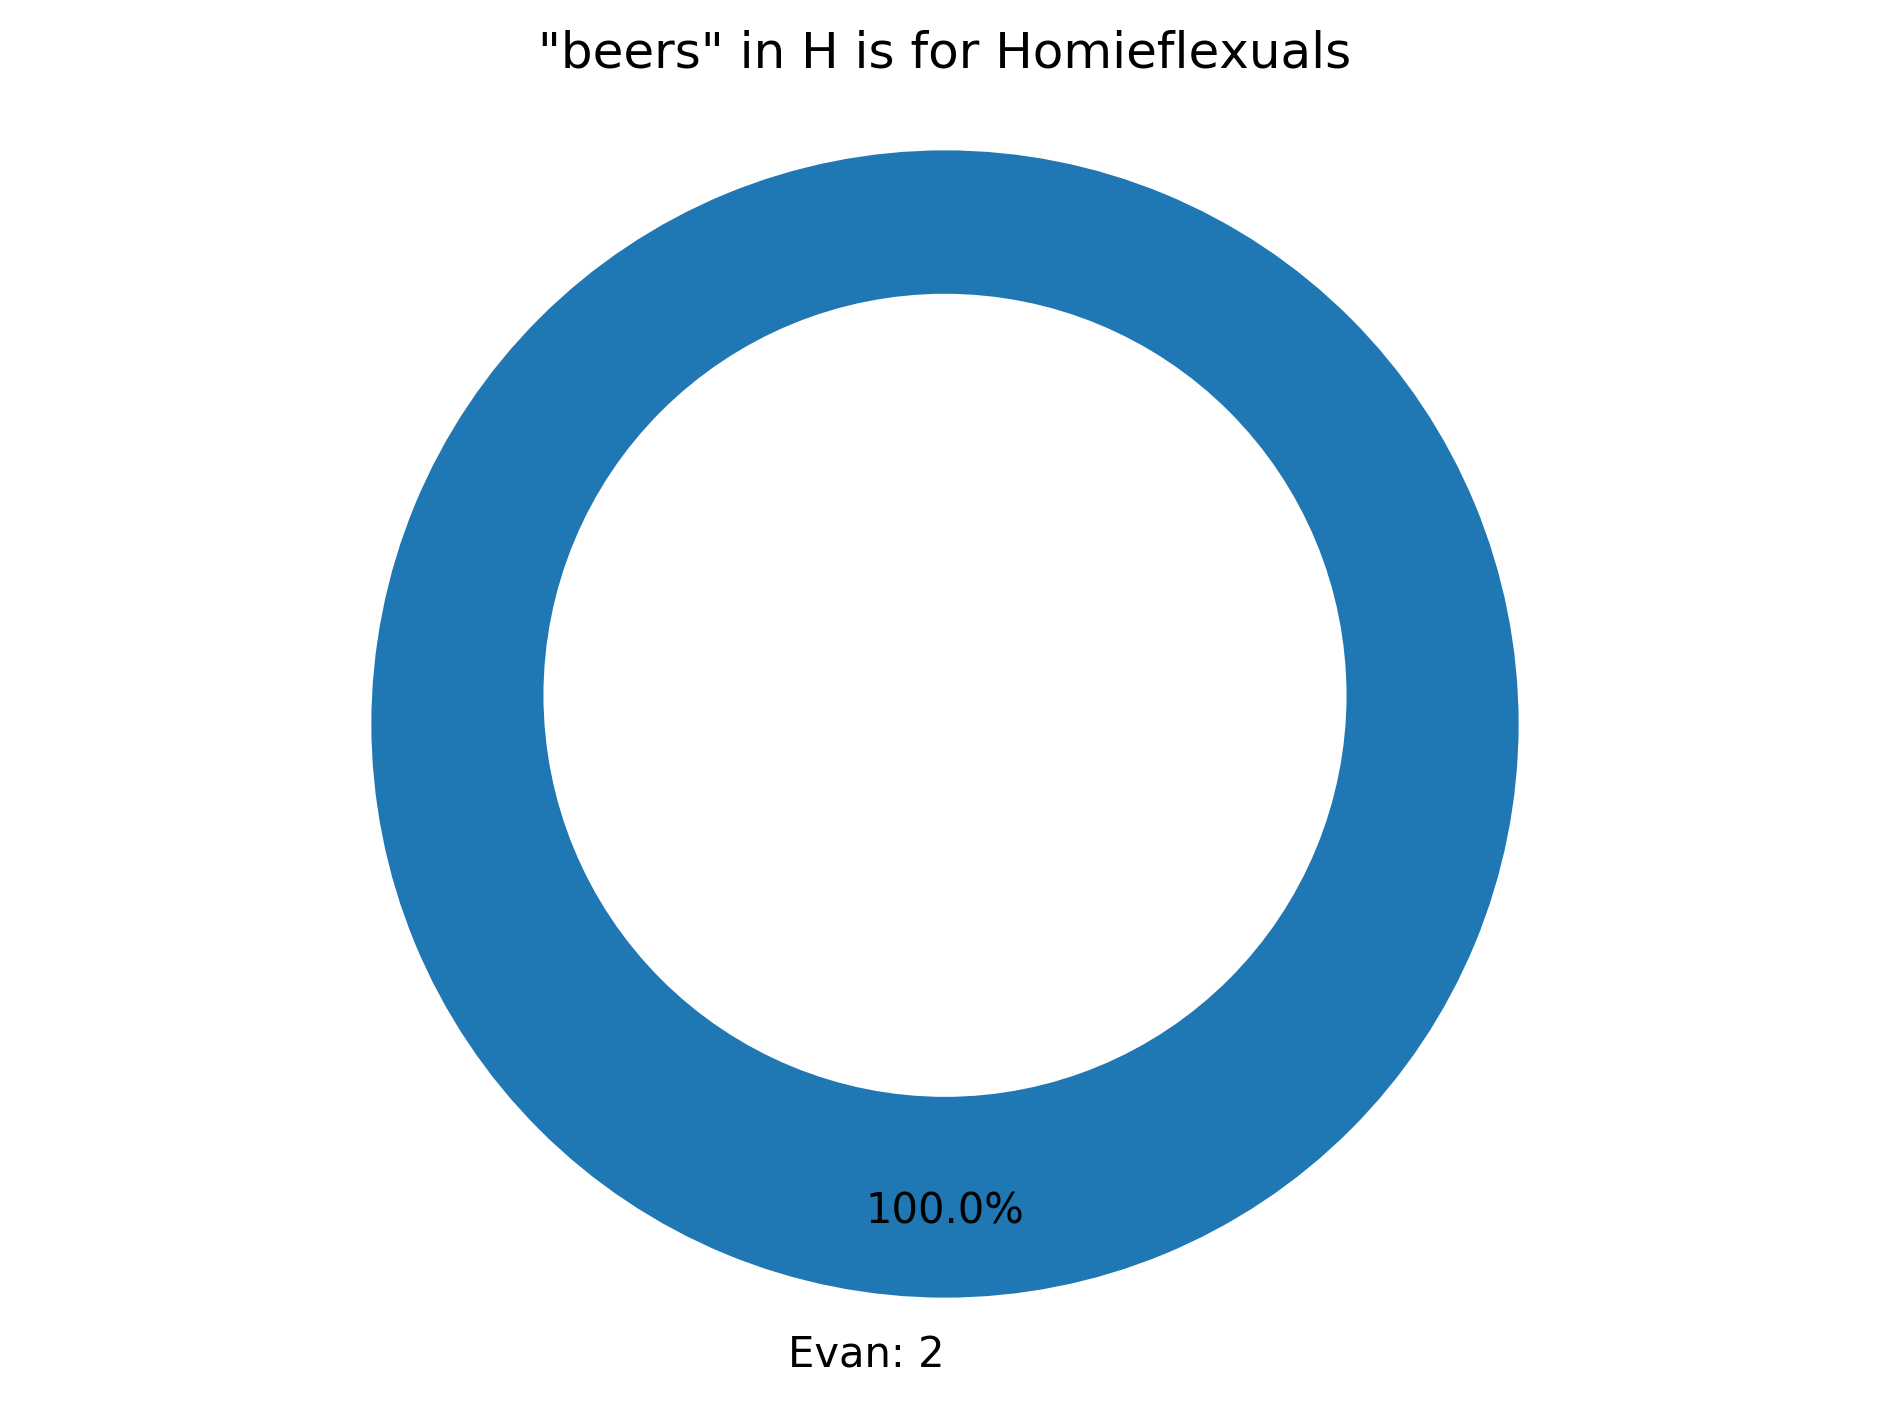
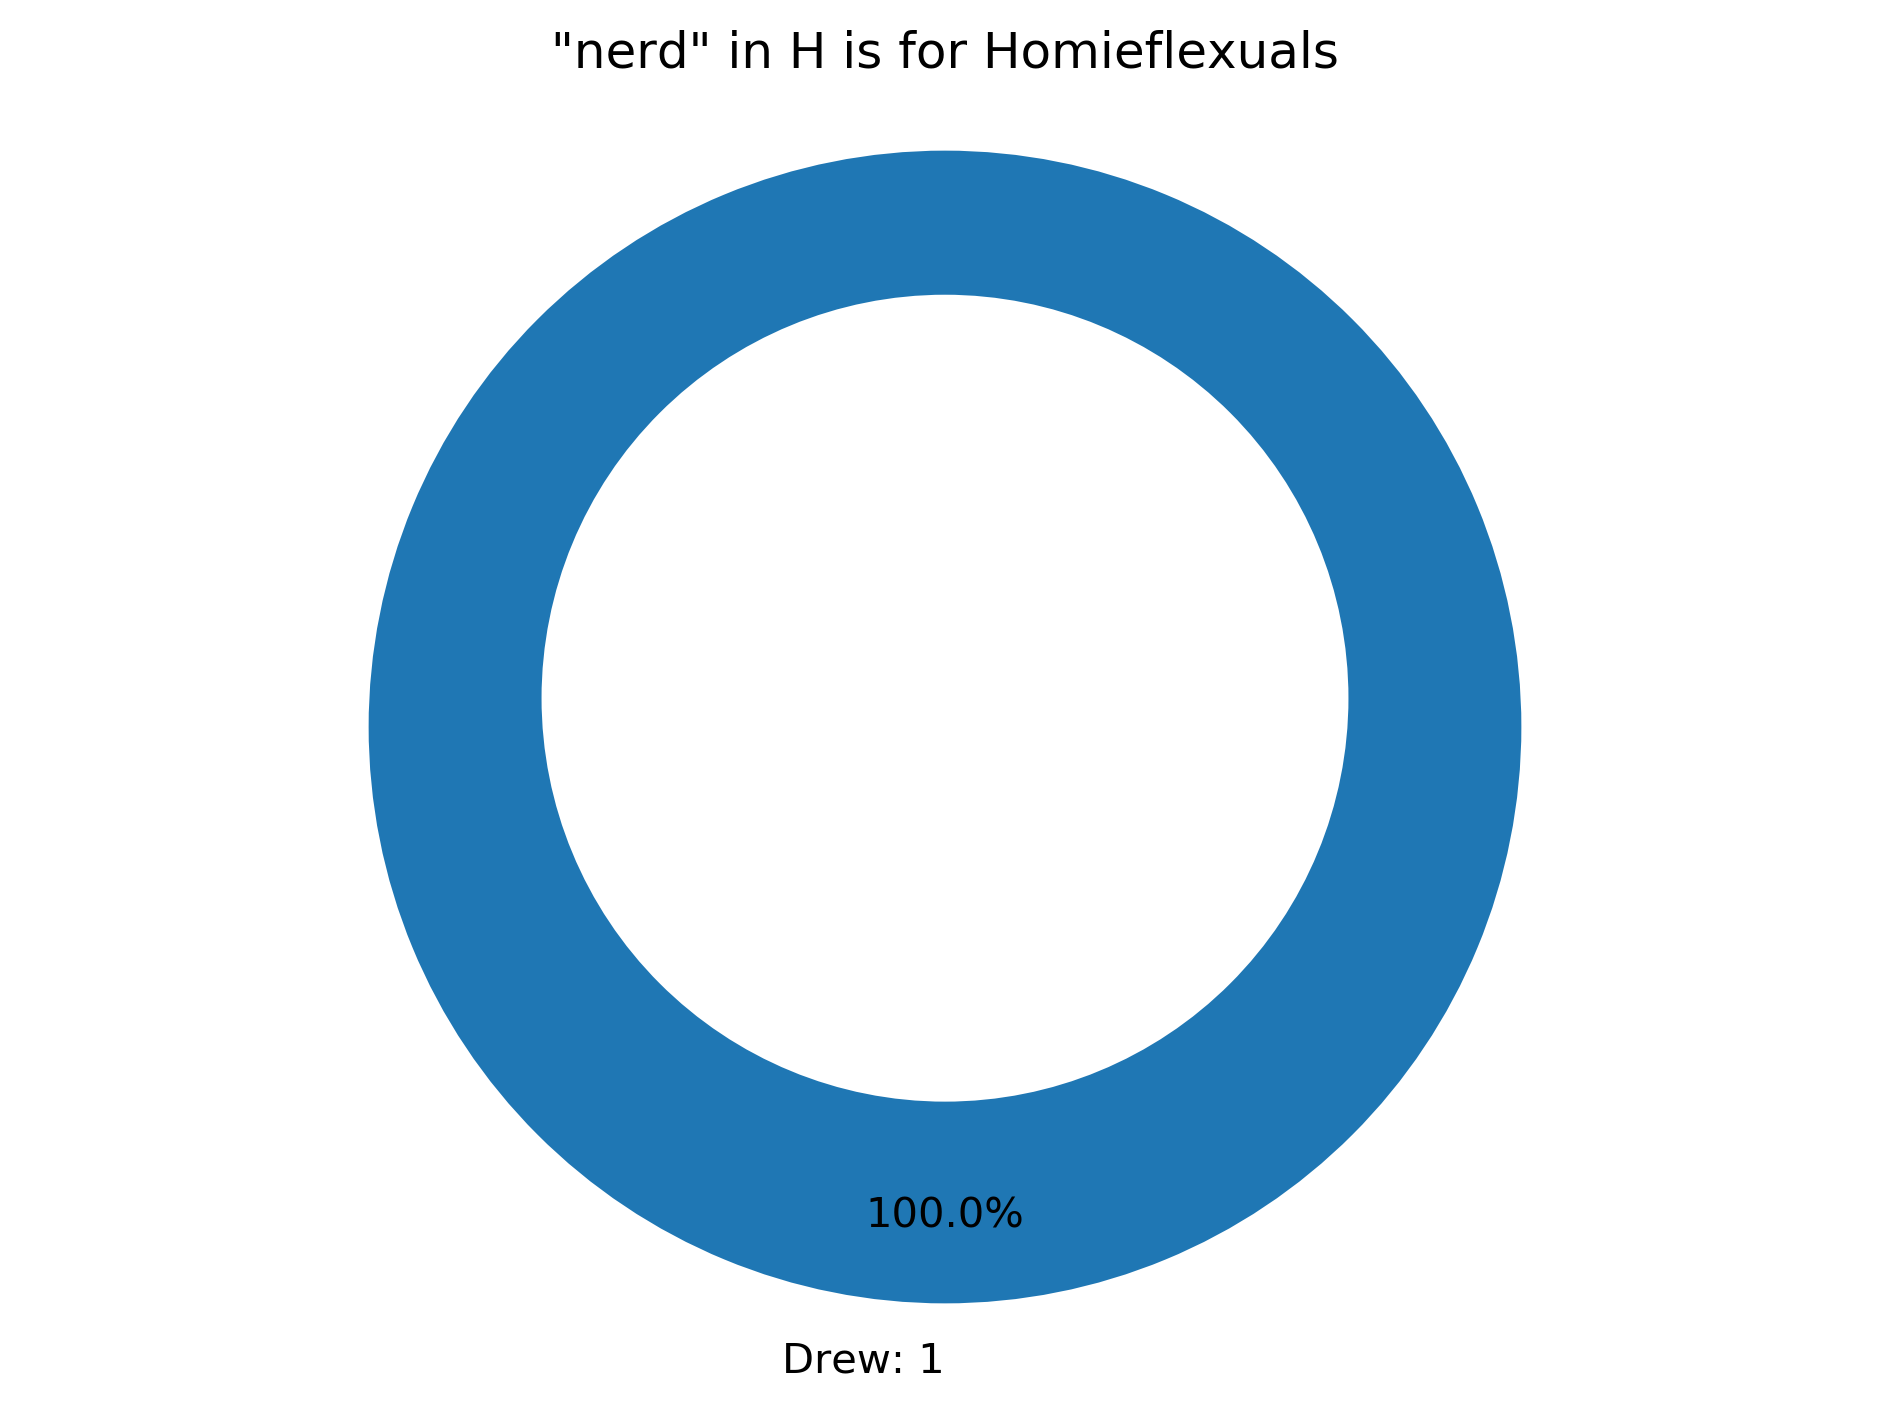
Fix code

Changed region(s): [[0.281, 0.0, 0.718, 0.0612], [0.4058, 0.9481, 0.4995, 0.9787]]

diff --git a/app.py b/app.py
@@ -4,6 +4,10 @@ import subprocess
 from database import Database
 import config
 from imessage import Chat, Message, Recipient
+import matplotlib.pyplot as plt
+from os import listdir
+from os.path import isfile, join
+from random import randrange
 
 from pathlib import Path
 HOME = str(Path.home())
@@ -24,6 +28,9 @@ class Command:
 
   def getHelp(self):
     return self._help
+  
+  def onlyGroupChat(self):
+    return False
 
 class Help(Command):
   def __init__(self):
@@ -34,6 +41,8 @@ class Help(Command):
     for cmd in commands.items():
       output += "\n\n{0}{1}: {2}".format(config.PREFIX, cmd[1].getCommand(), cmd[1].getHelp())
     message.getChat().sendMessage(output)
+
+
 
 class Shuttle(Command):
   def __init__(self):
@@ -59,30 +68,71 @@ class WordStatistic(Command):
     if not chat.isGroup():
       chat.sendMessage("This command only works with group chats!")
       return
-    # chat.sendImage(os.getcwd() + "/gb.jpg")
 
-    chat.sendMessage("Not finished.")
+    if len(messageArr) < 2:
+      chat.sendMessage("You must supply a word after the command!")
+      return
+
+    word = " ".join(messageArr[1:])
+    data = db.getCountForWord(chat, word)
+    displayName = chat.getDisplayname()
+
+    try:
+      labels = [Recipient(d[1]).getName() + ": " + str(d[0]) for d in data]
+      total = sum([d[0] for d in data])
+      sizes = [d[0]/total for d in data]
+
+      explode = [0] * len(labels)
+      explode[sizes.index(max(sizes))] = 0.05
+      explode = tuple(explode)
+
+      fig1, ax1 = plt.subplots()
+      ax1.pie(sizes, labels=labels, autopct='%1.1f%%', startangle=90, pctdistance=0.85, explode = explode)
+      ax1.set_title("\"{0}\" in {1}".format(word, displayName))
+
+      centre_circle = plt.Circle((0,0),0.70,fc='white')
+      fig = plt.gcf()
+      fig.gca().add_artist(centre_circle)
+
+      ax1.axis('equal')  
+      plt.tight_layout()
+      plt.savefig("tmp/tmpstat.png",bbox_inches='tight',dpi=100)
+      chat.sendImage(os.getcwd() + "/tmp/tmpstat.png")
+    except:
+      chat.sendMessage("Could not find word \"{0}\" in chat!".format(word))
 
 class Gayle(Command):
   def __init__(self):
-    super().__init__("gayle", "mmmmmmmmm gayle beebe oh yeah mhm")
+    super().__init__("gayle", "Shows a random photo of our beloved Beebe")
+    path = os.getcwd() + "/beebe"
+    self.gaylePhotos = [f for f in listdir(path) if isfile(join(path, f))]
 
   def __call__(self, message, messageArr):
     chat = message.getChat()
-    chat.sendImage(os.getcwd() + "/gb.jpg")
+    randomIndex = randrange(len(self.gaylePhotos))
+    chat.sendImage(os.getcwd() + "/beebe/" + self.gaylePhotos[randomIndex])
 
+class Debug(Command):
+  def __init__(self, command, helpText):
+    super().__init__("debug", "Prints debug information to the chat")
   
+  def __call__(self, message, messageArr):
+    chat = message.getChat()
+    output = "Chat: {0}\n".format(chat)
 
 commands = {
   "help": Help(),
-  "shuttle": Shuttle(),
+  # "shuttle": Shuttle(),
   "name": Name(),
   "wordstat": WordStatistic(),
-  "gayle": Gayle()
+  "gayle": Gayle(),
+  "debug": Debug()
 }
 
 def handleCommand(message):
   cmd = message.getText()
+  if cmd is None:
+    return
   if cmd[0] == "!":
     commandList = cmd.split(" ")
     command = commandList[0][1:].lower()

diff --git a/test.py b/test.py
@@ -3,10 +3,10 @@ from database import Database
 from imessage import Chat
 from imessage import Recipient
 
-db = Database("/Users/john/Library/Messages/chat.db")
+db = Database("/Users/panos/Library/Messages/chat.db")
 
 word = input("> ")
-chat = Chat("+14084311571", "chat976120161778148208")
+chat = Chat("+14084311571", "chat172003174992565788")
 data = db.getCountForWord(chat, word)
 displayName = chat.getDisplayname()
 
@@ -45,14 +45,5 @@ fig.gca().add_artist(centre_circle)
 # Equal aspect ratio ensures that pie is drawn as a circle
 ax1.axis('equal')  
 plt.tight_layout()
-plt.savefig("image.png",bbox_inches='tight',dpi=300)
+plt.savefig("tmp/tmpstat.png",bbox_inches='tight',dpi=300)
 # plt.show()
-
-class Example:
-  def __repr__(self): # __repr__ implementation
-    return "Hello!"
-
-exampleInstance = Example() # Create an instance of Example
-testVariable = str(exampleInstance) # Variable would now contain string "Hello!"
-print(exampleInstance) # Would print Hello! to the console
-print(exampleInstance.__repr__()) # Would also print Hello! to the console

diff --git a/database.py b/database.py
@@ -18,8 +18,8 @@ class Database:
 
   def getCountForWord(self, chat, word):
     c = self._db.cursor()
-    c.execute("SELECT COUNT(message.text), handle.id FROM message LEFT OUTER JOIN handle ON message.handle_id = handle.ROWID WHERE message.is_from_me = 0 AND message.cache_roomnames = ? AND message.text LIKE ? GROUP BY message.handle_id", (chat.getRoomname(), "%" + word + "%", ))
+    c.execute("SELECT COUNT(message.text), handle.id FROM message LEFT OUTER JOIN handle ON message.handle_id = handle.ROWID WHERE message.is_from_me = 0 AND message.cache_roomnames = ? AND message.text LIKE ? AND message.text NOT LIKE '%wordstat%' GROUP BY message.handle_id", (chat.getRoomname(), "%" + word + "%", ))
     print(c)
     return c.fetchall()
 
-db = Database("/Users/john/Library/Messages/chat.db")
+db = Database("/Users/panos/Library/Messages/chat.db")
